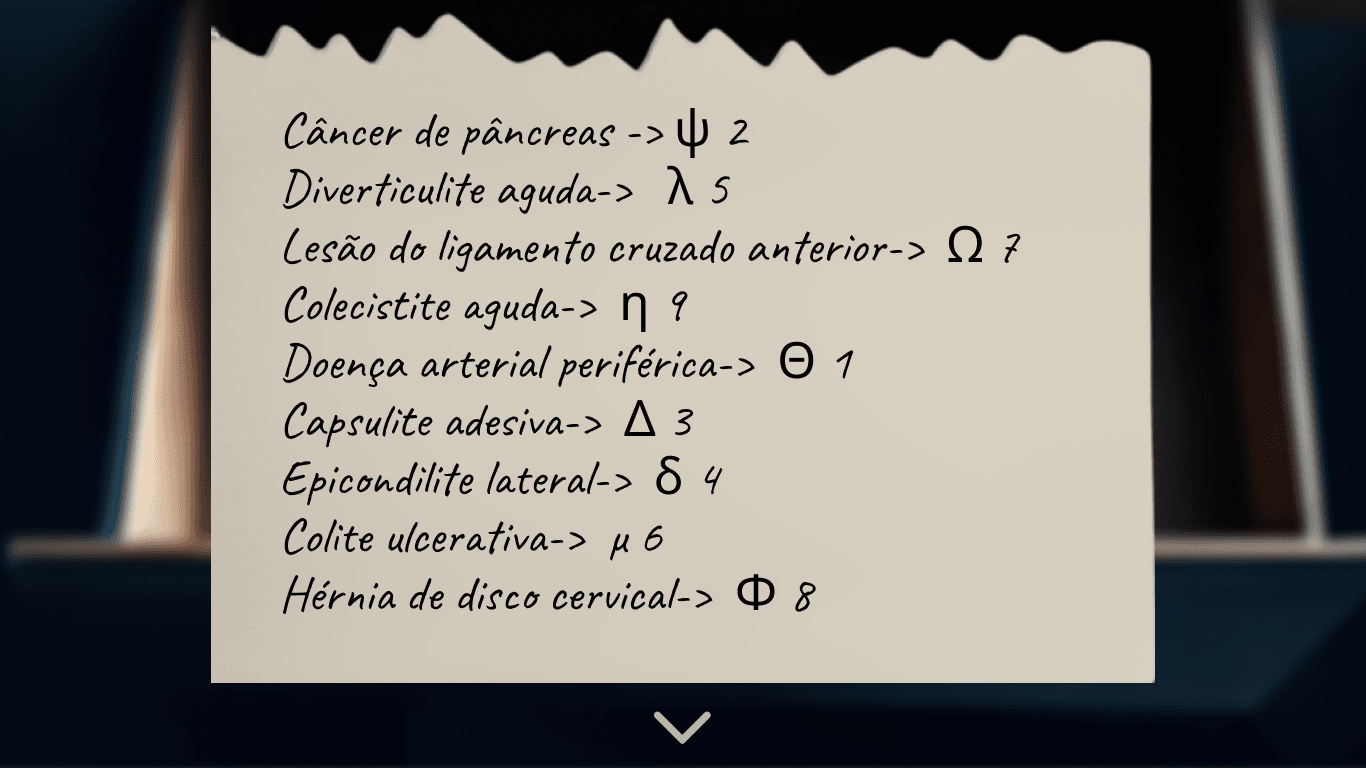
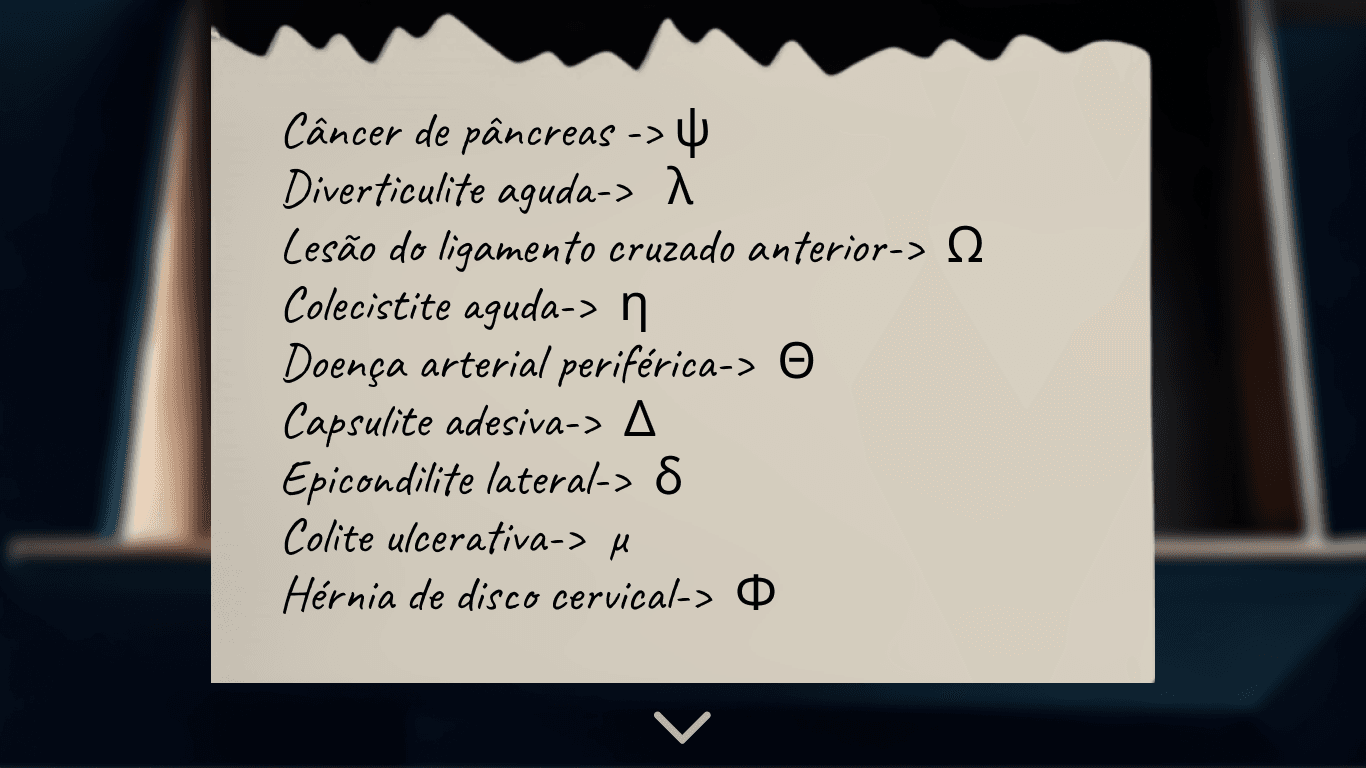
inicial room

diff --git a/view/initialRoom.php b/view/initialRoom.php
@@ -26,6 +26,23 @@ if ($pagina == 3) {
 } else if ($pagina == 5) {
     echo '<img src="../scenarios/inicialRoom/inicialRoom2.png">';
     echo '<button class="down-arrow-position" onclick="salvarTempo(); redirecionarPagina(3,' . $idPuzzle . ');"></button>';
+    $query = "SELECT * FROM puzzle natural join initialroom WHERE idPuzzle = $idPuzzle";
+    $result = mysqli_query($conectado, $query);
+    $cont = 0;
+    while ($row = mysqli_fetch_assoc($result)) {
+        if ($cont < 6) {
+            echo '<p class="option-1">' . $row['alternativa1'] . $row['cid1'] . '</p>';
+            echo '<p class="option-2">' . $row['alternativa2'] . $row['cid2'] . '</p>';
+            echo '<p class="option-3">' . $row['alternativa3'] . $row['cid3'] . '</p>';
+            echo '<p class="option-4">' . $row['alternativa4'] . $row['cid4'] . '</p>';
+        } else {
+            echo '<p class="option-1">' . $row['alternativa1'] . $row['cid1'] . '</p>';
+            echo '<p class="option-2">' . $row['alternativa2'] . $row['cid2'] . '</p>';
+            echo '<p class="option-3">' . $row['alternativa3'] . $row['cid3'] . '</p>';
+            echo '<p class="option-4">' . $row['alternativa4'] . $row['cid4'] . '</p>';
+        }
+        $cont++;
+    }
 } else if ($pagina == 6 ||  $pagina == 7 ||  $pagina == 8) {
     echo '<button class="down-arrow-position" onclick="salvarTempo(); redirecionarPagina(3,' . $idPuzzle . ');"></button>';
     if ($pagina == 6) {
